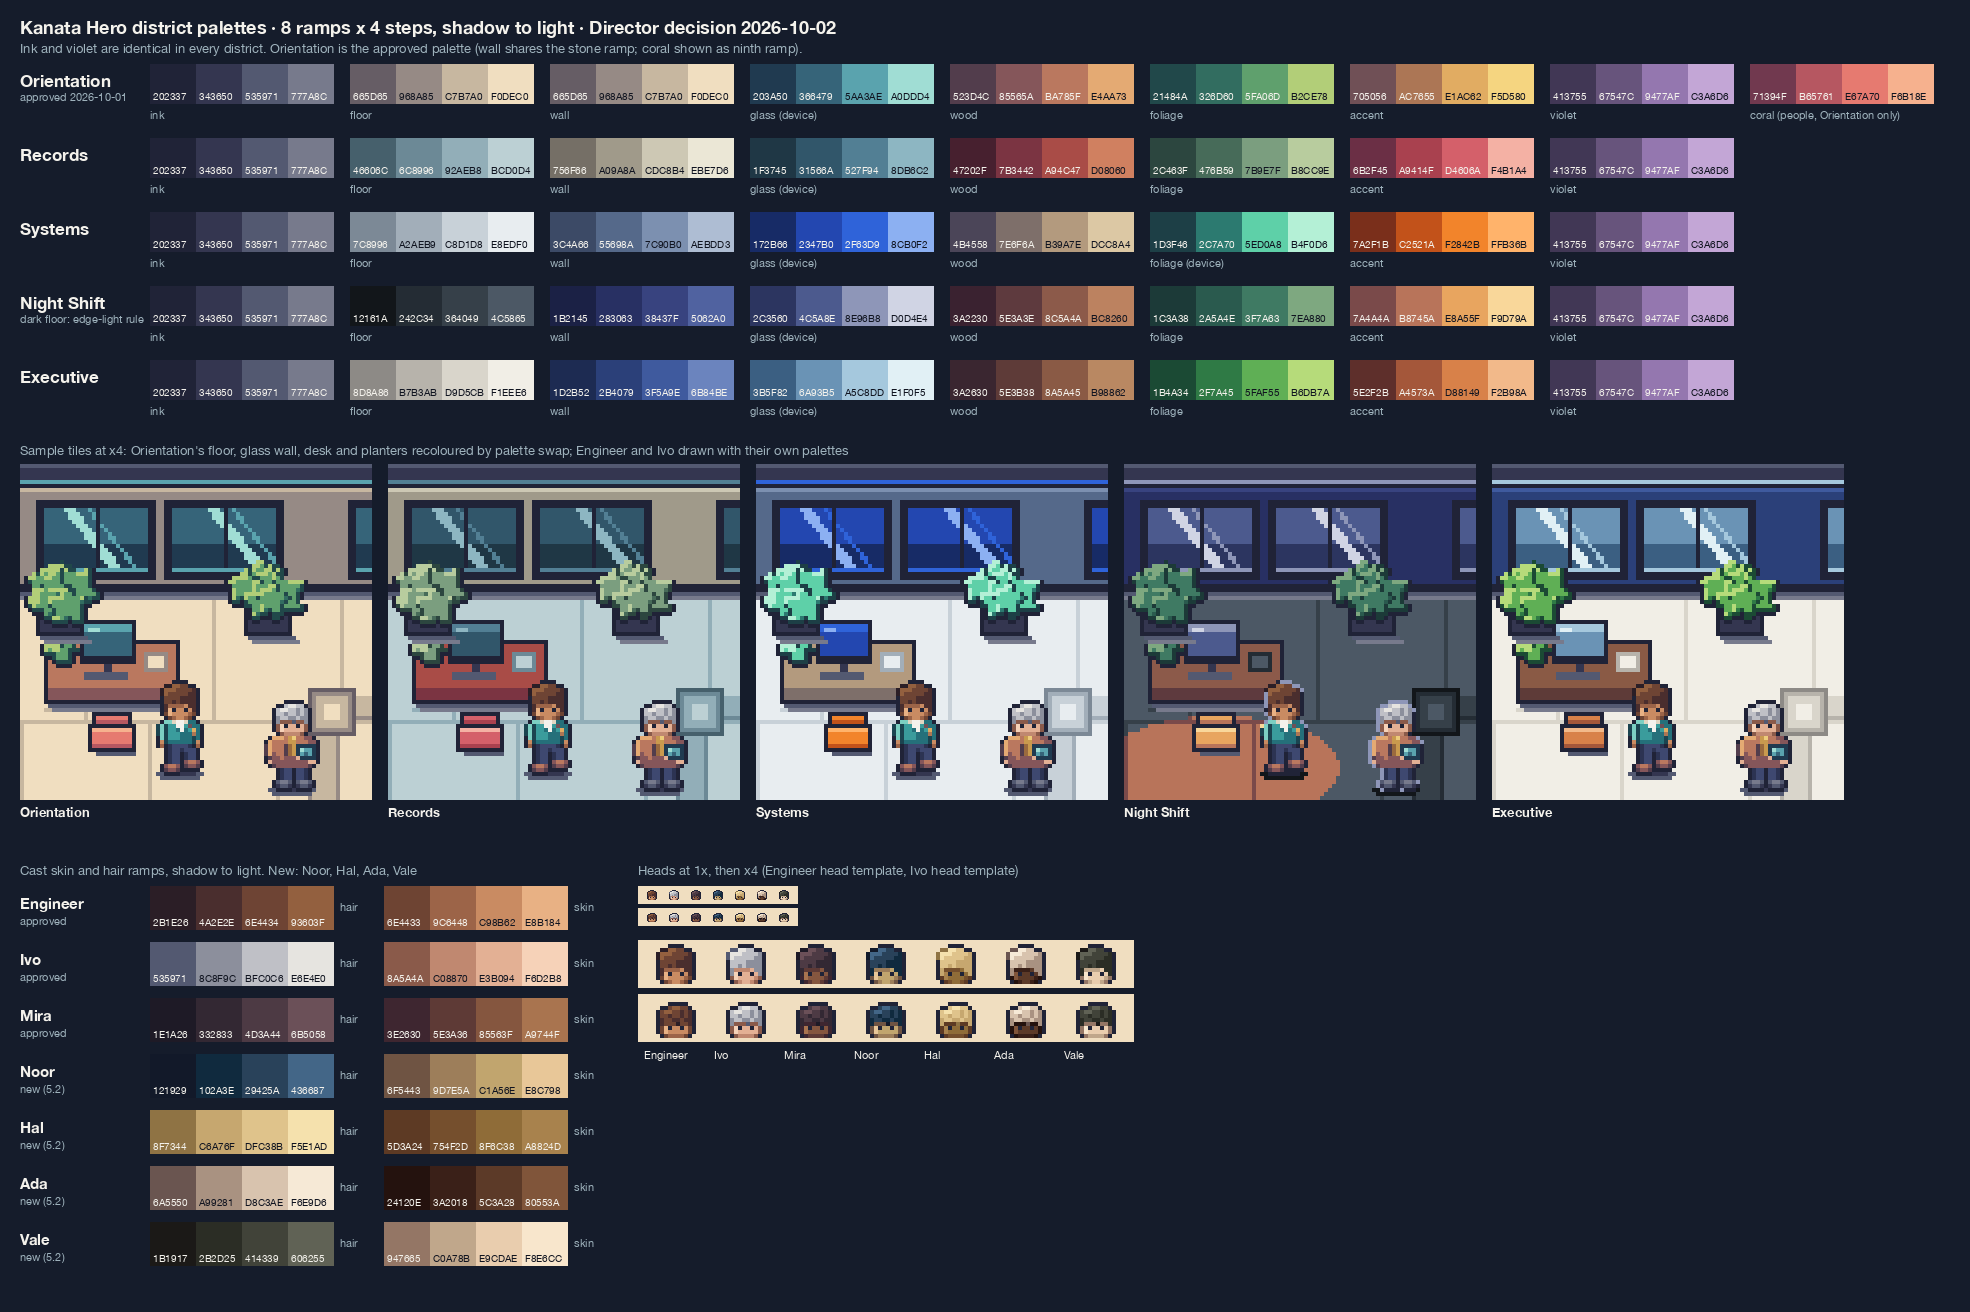
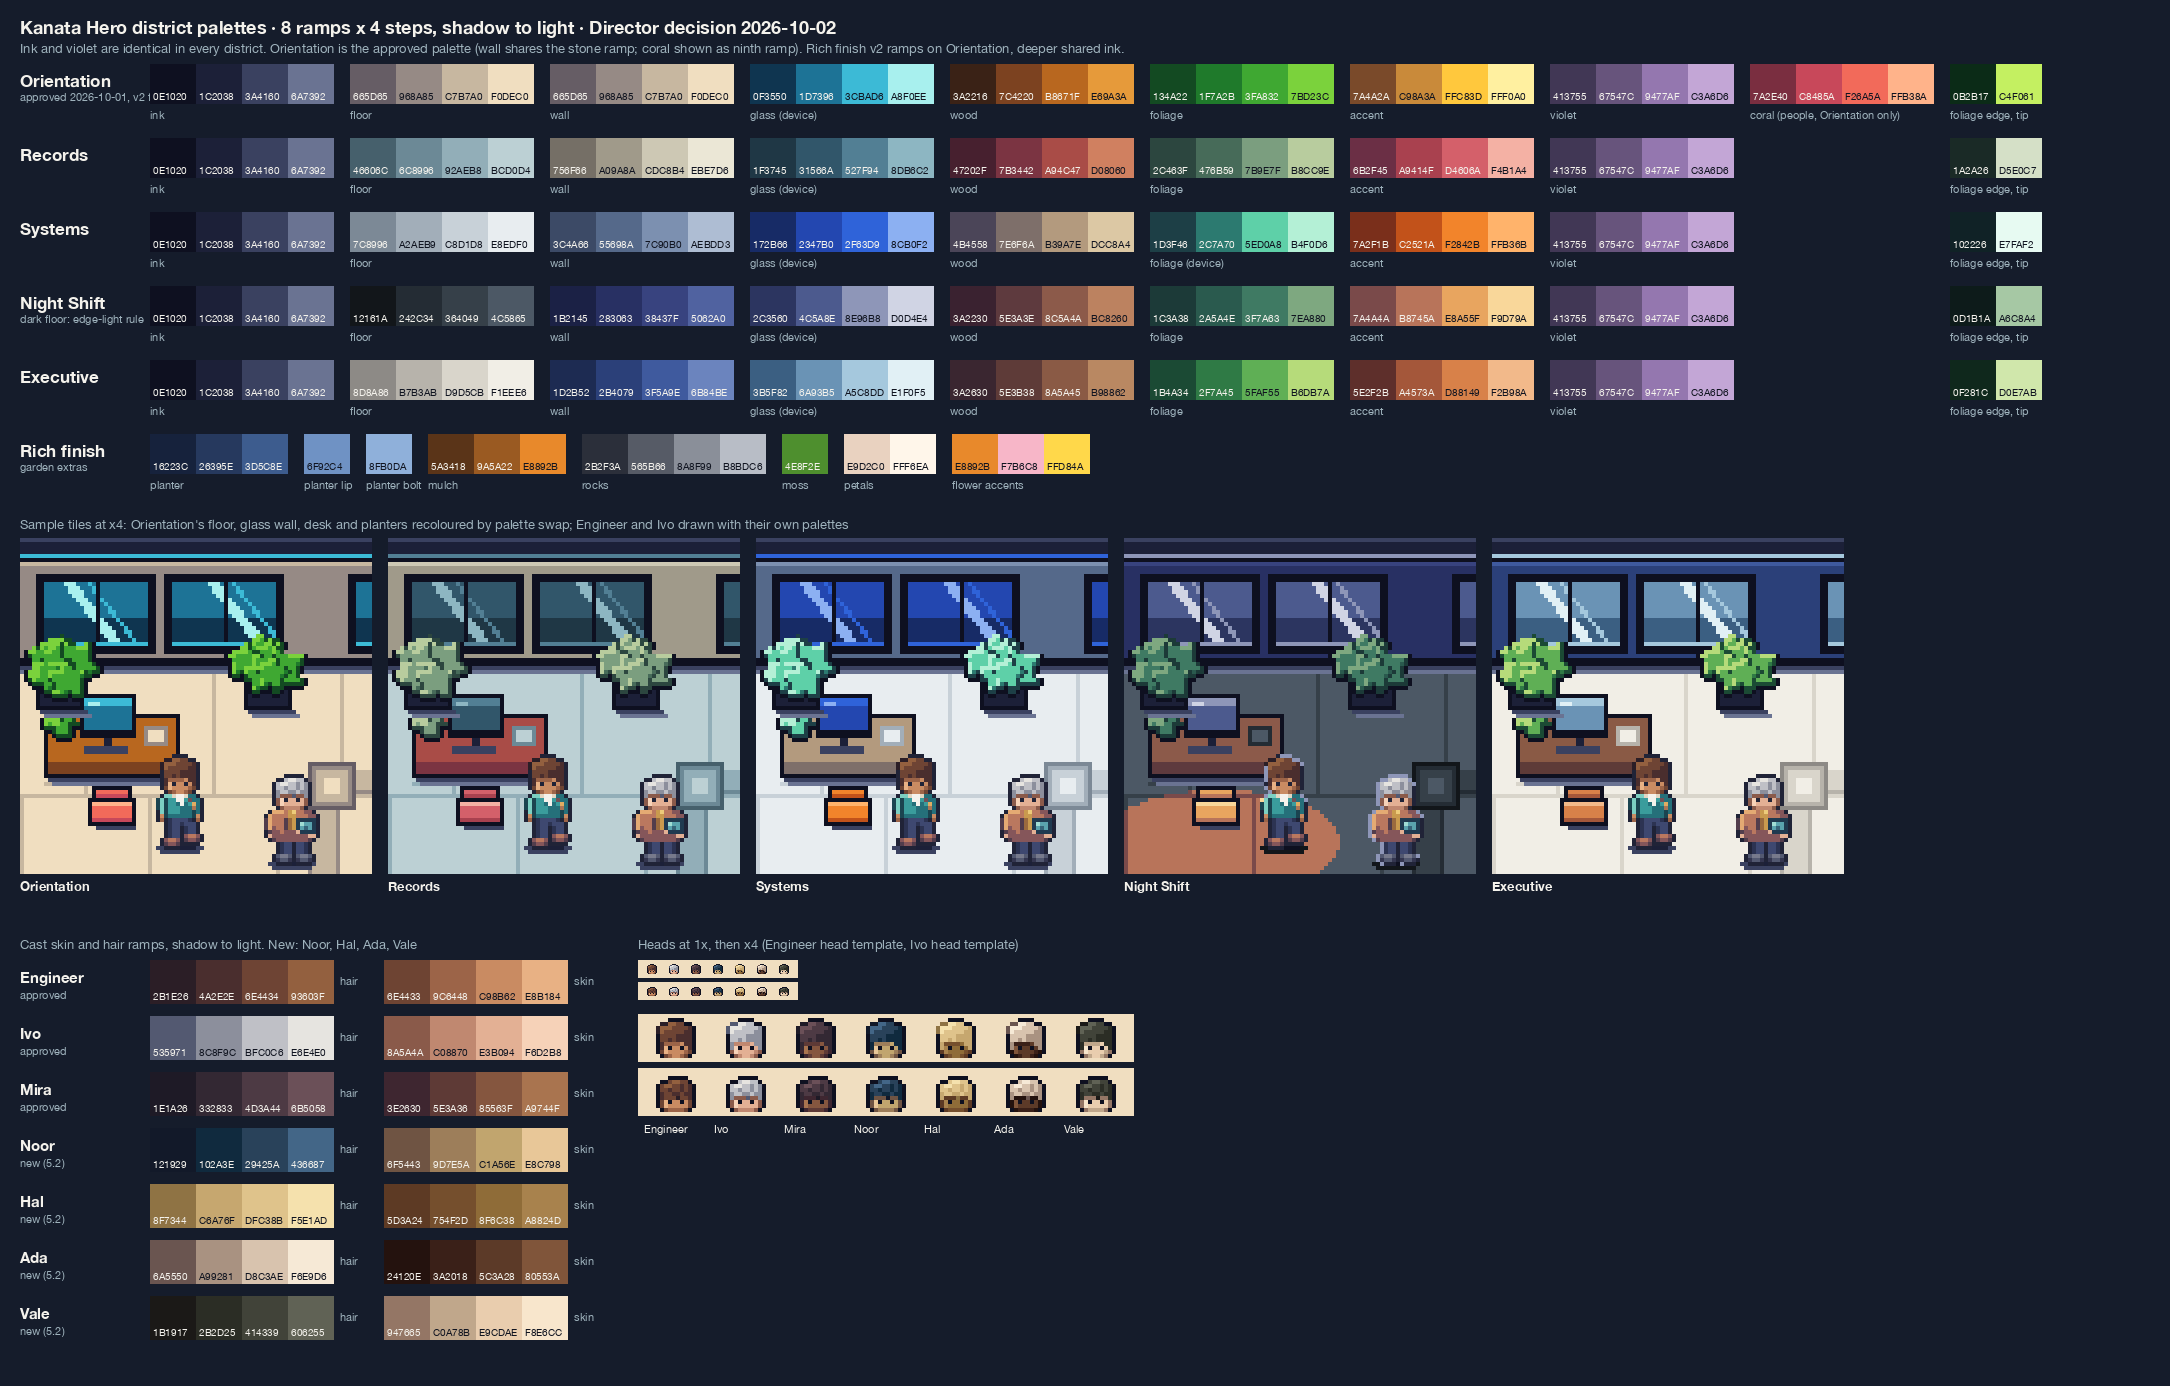
feat(art): add rich finish v2 palettes and checks

diff --git a/art-direction/palettes/check_palettes.py b/art-direction/palettes/check_palettes.py
@@ -14,7 +14,11 @@ Run: python3 check_palettes.py            (needs numpy only; exit code 1 on any 
   (d) shared      ink and violet ramps are identical in every district
   (e) cast        new skin/hair ramps: corresponding mid steps >= 12 dE from every other cast
                   member, hair separated from skin, ramps clear of markers and violet
-Orientation is the approved palette: it is reported (INFO) but not failed.
+  (h) rich finish v2 ramps and extras (RICH_FINISH_SPEC.md): every step of the garden and planter extras
+                  and of every district's foliage tip and edge tones is >= dE 10 from every marker;
+                  Orientation's foliage ramp plus tip is the five rich-finish foliage tones; each tip is
+                  lighter than foliage step 3 and each edge darker than step 0, both >= dE 8 away
+The v2 Orientation ramps are held to the same checks as every other district.
 """
 import colorsys
 import itertools
@@ -25,7 +29,7 @@ HERE = os.path.dirname(os.path.abspath(__file__))
 sys.path.insert(0, HERE)
 import district_palettes as dp  # noqa: E402
 
-OUTLINE = "#202337"
+OUTLINE = dp.INK[0]  # rich finish v2 outline #0E1020
 MIN_DE_MARKER = 10.0
 MIN_DE_CAST = 12.0
 MIN_CONTRAST = 3.0
@@ -179,7 +183,7 @@ def run(verbose=True):
     for d, pal in dp.DISTRICTS.items():
         for name, steps in pal.items():
             for i in range(3):
-                if de(steps[i], steps[i + 1]) < 8 and d != "orientation":
+                if de(steps[i], steps[i + 1]) < 8:
                     fails.append(f"(f) {d}.{name}[{i}->{i + 1}] only dE {de(steps[i], steps[i + 1]):.1f}")
 
     # (a) markers and (b) teal saturation, per district
@@ -187,7 +191,7 @@ def run(verbose=True):
     pools = {d: dict(pal) for d, pal in dp.DISTRICTS.items()}
     pools["orientation"].update(dp.ORIENTATION_EXTRA)
     for d, pal in pools.items():
-        bucket = info if d == "orientation" else fails
+        bucket = fails
         for name, i, h in ramp_steps(pal):
             for mk, mh in dp.MARKERS.items():
                 if name == "violet":
@@ -215,7 +219,7 @@ def run(verbose=True):
     for r in rows:
         out(f"{dp.NAMES[r['district']]:12} {r['sprite']:9} {r['outline']:8.2f} {r['rim']:6.2f} "
             f"{r['worst']:7.2f} ({r['worst_key']:10}) {r['low']}/{r['n']}  {r['cov'] * 100:6.0f}% / {r['cov_mid'] * 100:3.0f}%")
-        bucket = info if r["district"] == "orientation" else fails
+        bucket = fails
         if is_dark_floor(r["district"]):
             if r["rim"] < MIN_RIM_CONTRAST:
                 bucket.append(f"(c) {r['district']}: rim {rim_hex()} only {r['rim']:.2f}:1 against the floor (moonlight level {MIN_RIM_CONTRAST}:1)")
@@ -281,6 +285,37 @@ def run(verbose=True):
         ds = de(allc[a]["skin"][2], allc[b]["skin"][2])
         if min(dh, ds) < MIN_DE_CAST and (a in dp.CAST_RAMPS or b in dp.CAST_RAMPS):
             fails.append(f"(e) {a}/{b}: hair dE {dh:.1f}, skin dE {ds:.1f}")
+
+    # (h) rich finish: foliage tones, tip and edge, garden extras
+    out("\n(h) Rich finish: foliage tip and edge tones per district, garden extras vs markers")
+    if dp.DISTRICTS["orientation"]["foliage"] + [dp.FOLIAGE_EXTRA["orientation"]["tip"]] != dp.FOLIAGE_TONES:
+        fails.append("(h) orientation foliage ramp plus tip is not FOLIAGE_TONES")
+    if set(dp.FOLIAGE_EXTRA) != set(dp.DISTRICTS):
+        fails.append("(h) FOLIAGE_EXTRA must cover exactly the five districts")
+    for d, ex in dp.FOLIAGE_EXTRA.items():
+        f = dp.DISTRICTS[d]["foliage"]
+        tip, edge = ex["tip"], ex["edge"]
+        out(f"  {dp.NAMES[d]:12} tip {tip} (dE {de(tip, f[3]):4.1f} from step 3)  edge {edge} (dE {de(edge, f[0]):4.1f} from step 0)")
+        if lab(tip)[0] <= lab(f[3])[0] or de(tip, f[3]) < 8:
+            fails.append(f"(h) {d}: foliage tip {tip} must be lighter than step 3 {f[3]} and dE >= 8 from it")
+        if lab(edge)[0] >= lab(f[0])[0] or de(edge, f[0]) < 8:
+            fails.append(f"(h) {d}: foliage edge {edge} must be darker than step 0 {f[0]} and dE >= 8 from it")
+        for tag, h in (("tip", tip), ("edge", edge)):
+            for mk, mh in dp.MARKERS.items():
+                if de(h, mh) < MIN_DE_MARKER:
+                    fails.append(f"(h) {d}: foliage {tag} {h} only dE {de(h, mh):.1f} from the {mk} marker")
+            hue, sat, _ = hsl(h)
+            if 160 <= hue <= 200 and sat > 60 and "foliage" not in dp.DEVICE_RAMPS[d]:
+                fails.append(f"(h) {d}: foliage {tag} {h} teal-hued at {sat:.0f}% saturation")
+    for name, steps in dp.RICH_EXTRAS.items():
+        for h in steps:
+            for mk, mh in dp.MARKERS.items():
+                if de(h, mh) < MIN_DE_MARKER:
+                    fails.append(f"(h) extras.{name} {h} only dE {de(h, mh):.1f} from the {mk} marker")
+        if name in ("planter", "rocks", "mulch", "petals"):
+            if sorted(steps, key=lambda h: lab(h)[0]) != list(steps):
+                fails.append(f"(h) extras.{name} is not ordered shadow -> light")
+    out("  extras: " + ", ".join(f"{n} x{len(v)}" for n, v in dp.RICH_EXTRAS.items()))
 
     out("")
     for line in info:

diff --git a/art-direction/palettes/district_palettes.py b/art-direction/palettes/district_palettes.py
@@ -7,9 +7,12 @@ everywhere). `floor` step 3 is the broad fill and step 2 the slab mid tone, the
 indices environment.py already uses for STONE. The darkest step of a ramp goes on
 contours and joints only, as in STYLE_BIBLE section 3.
 
-Orientation is the approved palette from STYLE_BIBLE section 3. It has no separate
-wall ramp (walls reuse the stone ramp) and keeps coral as a ninth, people ramp.
-Spec and derivation: PALETTES_SPEC.md. Checks: check_palettes.py.
+Orientation is the approved palette from STYLE_BIBLE section 3 with the rich-finish v2
+ramps (2026-10-02, ../rich-finish/RICH_FINISH_SPEC.md): ink, glass, wood, foliage and
+brass/accent are the v2 hexes, stone is unchanged. It has no separate wall ramp (walls reuse
+the stone ramp) and keeps coral as a ninth, people ramp. The deeper v2 ink is shared by every
+district. Every district's foliage also has a sunlit tip and an edge tone (FOLIAGE_EXTRA) for
+the leaf fans. Spec and derivation: PALETTES_SPEC.md. Checks: check_palettes.py.
 """
 import importlib
 import os
@@ -18,7 +21,7 @@ import sys
 ROLES = ("ink", "floor", "wall", "glass", "wood", "foliage", "accent", "violet")
 FLOOR_FILL, FLOOR_MID = 3, 2  # indices into the floor ramp (environment.py: STONE[3] fill, STONE[2] joints)
 
-INK = ["#202337", "#343650", "#535971", "#777A8C"]
+INK = ["#0E1020", "#1C2038", "#3A4160", "#6A7392"]  # rich finish v2; replaced #202337 #343650 #535971 #777A8C
 VIOLET = ["#413755", "#67547C", "#9477AF", "#C3A6D6"]  # glitches only, identical in every district
 
 MARKERS = {"teal": "#19AFA2", "coral": "#EC776D", "violet": "#9876D5", "gold": "#E6B750"}
@@ -28,10 +31,10 @@ DISTRICTS = {
         "ink": INK,
         "floor": ["#665D65", "#968A85", "#C7B7A0", "#F0DEC0"],
         "wall": ["#665D65", "#968A85", "#C7B7A0", "#F0DEC0"],  # shares the stone ramp
-        "glass": ["#203A50", "#366479", "#5AA3AE", "#A0DDD4"],
-        "wood": ["#523D4C", "#85565A", "#BA785F", "#E4AA73"],
-        "foliage": ["#21484A", "#326D60", "#5FA06D", "#B2CE78"],
-        "accent": ["#705056", "#AC7655", "#E1AC62", "#F5D580"],  # brass / discovery
+        "glass": ["#0F3550", "#1D7396", "#3CBAD6", "#A8F0EE"],  # v2 (was #203A50 #366479 #5AA3AE #A0DDD4)
+        "wood": ["#3A2216", "#7C4220", "#B8671F", "#E69A3A"],  # v2 (was #523D4C #85565A #BA785F #E4AA73)
+        "foliage": ["#134A22", "#1F7A2B", "#3FA832", "#7BD23C"],  # v2 garden green (was #21484A #326D60 #5FA06D #B2CE78)
+        "accent": ["#7A4A2A", "#C98A3A", "#FFC83D", "#FFF0A0"],  # v2 brass / discovery (was #705056 #AC7655 #E1AC62 #F5D580)
         "violet": VIOLET,
     },
     "records": {
@@ -76,7 +79,34 @@ DISTRICTS = {
     },
 }
 # Orientation keeps coral (people / upholstery) beside its eight ramps.
-ORIENTATION_EXTRA = {"coral": ["#71394F", "#B65761", "#E67A70", "#F6B18E"]}
+ORIENTATION_EXTRA = {"coral": ["#7A2E40", "#C8485A", "#F26A5A", "#FFB38A"]}  # v2 (was #71394F #B65761 #E67A70 #F6B18E)
+
+# Rich-finish foliage tones, deepest to sunlit tip. Orientation's foliage ramp is steps 0-3 of this.
+FOLIAGE_TONES = ["#134A22", "#1F7A2B", "#3FA832", "#7BD23C", "#C4F061"]
+
+# Every district's foliage ramp gains a sunlit tip (lighter than step 3: the single-pixel leaf
+# sparkles) and a dark edge tone (darker than step 0: the line between overlapping leaves).
+# The four-step ramps above stay as approved.
+FOLIAGE_EXTRA = {
+    "orientation": {"tip": "#C4F061", "edge": "#0B2B17"},
+    "records": {"tip": "#D5E0C7", "edge": "#1A2A26"},
+    "systems": {"tip": "#E7FAF2", "edge": "#102226"},
+    "nightshift": {"tip": "#A6C8A4", "edge": "#0D1B1A"},
+    "executive": {"tip": "#D0E7AB", "edge": "#0F281C"},
+}
+
+# Garden and planter extras that exist only in the rich finish (RICH_FINISH_SPEC.md section 1).
+# Lists are ordered shadow -> light unless a note says otherwise.
+RICH_EXTRAS = {
+    "planter": ["#16223C", "#26395E", "#3D5C8E"],  # blue planters
+    "planter_lip": ["#6F92C4"],  # lit top lip
+    "planter_bolt": ["#8FB0DA"],  # metal band bolts
+    "mulch": ["#5A3418", "#9A5A22", "#E8892B"],  # soil, mulch, orange flecks
+    "rocks": ["#2B2F3A", "#565B66", "#8A8F99", "#B8BDC6"],  # grey rocks
+    "moss": ["#4E8F2E"],  # rock caps
+    "petals": ["#E9D2C0", "#FFF6EA"],  # flower petals: shade, lit
+    "flower_accents": ["#E8892B", "#F7B6C8", "#FFD84A"],  # centre, pink lily, yellow dots (unordered)
+}
 
 # Ramps that are emissive devices: they may be teal-hued above 60% saturation
 # (terminals, mint circuitry) but still never come near a UI marker.

diff --git a/art-direction/palettes/build_palettes.py b/art-direction/palettes/build_palettes.py
@@ -70,8 +70,10 @@ def palette_swap(img, district):
             out[m] = rgb(d)
             done[m] = True
 
-    for s in bst.INK:  # shared ramp: leave as is
-        done |= np.all(img == s, axis=2)
+    for s_ink, d_ink in zip(bst.INK, dp.INK):  # shared ramp: the deeper rich-finish ink in every district
+        m = np.all(img == s_ink, axis=2)
+        out[m] = rgb(d_ink)
+        done |= m
     swap(bst.STONE, pal["wall"], rows & np.ones(img.shape[:2], bool))
     swap(bst.STONE, pal["floor"])
     swap(bst.GLASS, pal["glass"])
@@ -200,10 +202,10 @@ def build():
     SW, SH, RG = 46, 40, 16
     ramp_w = 4 * SW
     left = 150
-    sheet_w = left + 9 * (ramp_w + RG) + 20
+    sheet_w = left + 10 * (ramp_w + RG) + 20
     block_h = SH + 34
     y_top = 64
-    y_tiles = y_top + 5 * block_h + 30
+    y_tiles = y_top + 6 * block_h + 30
     y_cast = y_tiles + TILE_H * ZOOM + 70
     cast_h = 7 * 56 + 40
     y_heads = y_cast + cast_h + 10
@@ -212,12 +214,12 @@ def build():
     d.text((20, 16), "Kanata Hero district palettes · 8 ramps x 4 steps, shadow to light · Director decision 2026-10-02",
            font=bst.font(18, bold=True), fill=INK_TXT)
     d.text((20, 40), "Ink and violet are identical in every district. Orientation is the approved palette (wall shares the stone "
-           "ramp; coral shown as ninth ramp).", font=bst.font(13), fill=DIM_TXT)
+           "ramp; coral shown as ninth ramp). Rich finish v2 ramps on Orientation, deeper shared ink.", font=bst.font(13), fill=DIM_TXT)
     for row, (district, pal) in enumerate(dp.DISTRICTS.items()):
         y = y_top + row * block_h
         d.text((20, y + 6), dp.NAMES[district], font=bst.font(17, bold=True), fill=INK_TXT)
         if district == "orientation":
-            d.text((20, y + 26), "approved 2026-10-01", font=bst.font(11), fill=DIM_TXT)
+            d.text((20, y + 26), "approved 2026-10-01, v2 finish", font=bst.font(11), fill=DIM_TXT)
         elif district == "nightshift":
             d.text((20, y + 26), "dark floor: edge-light rule", font=bst.font(11), fill=DIM_TXT)
         for i, role in enumerate(dp.ROLES):
@@ -229,6 +231,22 @@ def build():
     swatch_row(d, left + 8 * (ramp_w + RG), y_top, dp.ORIENTATION_EXTRA["coral"], SW, SH)
     d.text((left + 8 * (ramp_w + RG), y_top + SH + 4), "coral (people, Orientation only)", font=bst.font(11), fill=DIM_TXT)
 
+    # leaf-fan edge and tip tones: a tenth slot per district
+    for row, district in enumerate(dp.DISTRICTS):
+        y = y_top + row * block_h
+        x = left + 9 * (ramp_w + RG)
+        ex = dp.FOLIAGE_EXTRA[district]
+        swatch_row(d, x, y, [ex["edge"], ex["tip"]], SW, SH)
+        d.text((x, y + SH + 4), "foliage edge, tip", font=bst.font(11), fill=DIM_TXT)
+    # rich-finish garden extras
+    y = y_top + 5 * block_h
+    d.text((20, y + 6), "Rich finish", font=bst.font(17, bold=True), fill=INK_TXT)
+    d.text((20, y + 26), "garden extras", font=bst.font(11), fill=DIM_TXT)
+    x = left
+    for name, steps in dp.RICH_EXTRAS.items():
+        swatch_row(d, x, y, steps, SW, SH)
+        d.text((x, y + SH + 4), name.replace("_", " "), font=bst.font(11), fill=DIM_TXT)
+        x += len(steps) * SW + RG
     d.text((20, y_tiles - 22), "Sample tiles at x4: Orientation's floor, glass wall, desk and planters recoloured by palette swap; "
            "Engineer and Ivo drawn with their own palettes", font=bst.font(13), fill=DIM_TXT)
     for i, district in enumerate(dp.DISTRICTS):

diff --git a/art-direction/palettes/PALETTES_SPEC.md b/art-direction/palettes/PALETTES_SPEC.md
@@ -126,5 +126,5 @@ Source of truth: [`../rich-finish/RICH_FINISH_SPEC.md`](../rich-finish/RICH_FINI
 - **Ink is shared by every district**, so every district takes the deeper v2 ink ramp (`#0E1020` `#1C2038` `#3A4160` `#6A7392`). Violet stays verbatim.
 - **District foliage** keeps its four-step ramp from the table above and gains a fifth tone for the leaf fans: a sunlit tip one notch lighter than step 3, and a darker edge tone below step 0. Add both to `district_palettes.py` and re-run `check_palettes.py` (marker distance, teal saturation) before use.
 - **Night Shift edge light** is unchanged in intent: the moonlight rim is `#8E96B8`, and the warm head-and-shoulders rim stays limited to rows 0-12 inside lamp pools.
-- The numeric checks in `check_palettes.py` do not yet know the v2 Orientation ramps; adding them is a task in OpenSpec change `adopt-rich-finish`.
+- **Implemented (tasks 1.2, 1.3):** `district_palettes.py` now holds the v2 ink (shared), the v2 Orientation glass, wood, foliage, accent and coral ramps, `FOLIAGE_TONES`, `FOLIAGE_EXTRA` (a `tip` and an `edge` per district, e.g. Records `#D5E0C7`/`#1A2A26`) and `RICH_EXTRAS` (planter, mulch, rocks, moss, petals, flower accents). `check_palettes.py` holds Orientation to the same checks as the other districts and adds check (h): every extra and every tip/edge is at least dE 10 from each marker, tips are lighter than step 3 and edges darker than step 0 (both at least dE 8 away), and Orientation's foliage plus tip equals the five rich-finish tones. `palettes-sheet.png` shows them.
 

diff --git a/openspec/changes/adopt-rich-finish/tasks.md b/openspec/changes/adopt-rich-finish/tasks.md
@@ -3,8 +3,8 @@
 ## 1. Shared implementation and palettes
 
 - [ ] 1.1 Promote the v2 remap, leaf fans, planters, garden parts and light passes from `art-direction/rich-finish/` into `art-direction/kit/rich_finish.py`; verify that rebuilding Mock 2.1 from the shared module has zero differing pixels against `rich-finish/m2_1_organic.png`
-- [ ] 1.2 Add the Orientation v2 ramps and the foliage, planter, rock and flower extras to `palettes/district_palettes.py`, and teach `check_palettes.py` the marker-distance (dE 10) and teal-saturation checks for them; verify `check_palettes.py` passes
-- [ ] 1.3 Add the fifth foliage tone and edge tone to each district's foliage ramp; verify `check_palettes.py` passes and `palettes-sheet.png` is rebuilt
+- [x] 1.2 Add the Orientation v2 ramps and the foliage, planter, rock and flower extras to `palettes/district_palettes.py`, and teach `check_palettes.py` the marker-distance (dE 10) and teal-saturation checks for them; verify `check_palettes.py` passes
+- [x] 1.3 Add the fifth foliage tone and edge tone to each district's foliage ramp; verify `check_palettes.py` passes and `palettes-sheet.png` is rebuilt
 
 ## 2. People, props and shadows
 
